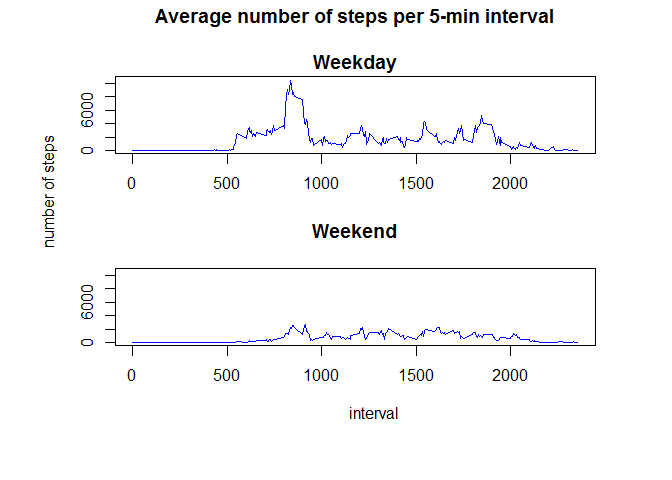
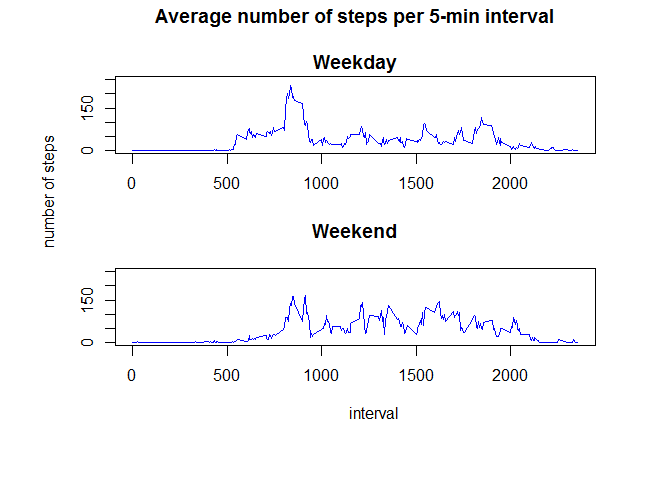
fixing some issues with last section

diff --git a/PA1_template.html b/PA1_template.html
@@ -126,34 +126,13 @@ for (i in 1:nrow(data3))
 data4[,&quot;date&quot;] &lt;- weekdays(as.Date(data4[,&quot;date&quot;]))
 data4[data4[,&quot;date&quot;] ==&quot;Saturday&quot; | data4[,&quot;date&quot;] == &quot;Sunday&quot;,&quot;date&quot;] &lt;- &quot;weekend&quot;
 data4[data4[,&quot;date&quot;] != &quot;weekend&quot; ,&quot;date&quot;] &lt;- &quot;weekday&quot;</code></pre>
-<p>Now we want to create a new dataframe with the sum of steps per day, differentiating between weekday or weekend.</p>
-<pre class="r"><code>dt4&lt;-data.table(data4)[,sum(steps),by=c(&quot;interval&quot;,&quot;date&quot;)]</code></pre>
-<p>Before doing a panel plot we want to check what the maximum values are in both cases, so we can set the same ylab limit values (otherwise it’s not easy to compare the two plots):</p>
-<pre class="r"><code>weekday &lt;- subset(dt4,date==&quot;weekday&quot;)
-weekend &lt;- subset(dt4,date==&quot;weekend&quot;)
-summary(weekday)</code></pre>
-<pre><code>##     interval          date                 V1         
-##  Min.   :   0.0   Length:288         Min.   :    0.0  
-##  1st Qu.: 588.8   Class :character   1st Qu.:  101.1  
-##  Median :1177.5   Mode  :character   Median : 1161.1  
-##  Mean   :1177.5                      Mean   : 1602.5  
-##  3rd Qu.:1766.2                      3rd Qu.: 2288.4  
-##  Max.   :2355.0                      Max.   :10367.0</code></pre>
-<pre class="r"><code>summary(weekend)</code></pre>
-<pre><code>##     interval          date                 V1         
-##  Min.   :   0.0   Length:288         Min.   :   0.00  
-##  1st Qu.: 588.8   Class :character   1st Qu.:  19.86  
-##  Median :1177.5   Mode  :character   Median : 517.43  
-##  Mean   :1177.5                      Mean   : 677.86  
-##  3rd Qu.:1766.2                      3rd Qu.:1194.46  
-##  Max.   :2355.0                      Max.   :2666.23</code></pre>
-<p>Now that we found that the maximum value is higher than 10,000 steps, we can make a panel plot containing a time series plot of the 5-minutes interval (x-axis) and the average number of steps taken, averaged across all weekday days or weekend days (y-axis). Note that both y-axis use the same limits.</p>
-<pre class="r"><code>par(mfrow = c(2,1),oma = c(5,4,0,0),mar = c(0,0,2,2)+2)
-plot(subset(dt4,date==&quot;weekday&quot;,select=c(interval,V1)),type=&quot;l&quot;,main=&quot;Average number of steps per 5-min interval\n\nWeekday&quot;,ylim=c(0,10500),xlab=&quot;&quot;,col='blue',ylab=&quot;number of steps&quot;)
-plot(subset(dt4,date==&quot;weekend&quot;,select=c(interval,V1)),type=&quot;l&quot;,main=&quot;Weekend&quot;,ylim=c(0,10500),col='blue',ylab=&quot;number of steps&quot;)
-title(main='Average number of steps per 5-min interval',xlab='interval',ylab='number of steps',outer=TRUE,line=1)</code></pre>
[1 lines of base64/hex data omitted]
-<p>By comparing both plots we can easily determine that this individual is much more active during the week (from Monday to Friday) than during the weekend.</p>
+<p>Now we want to create a new dataframe with the mean of steps per day, differentiating between weekday or weekend.</p>
+<pre class="r"><code>dt4&lt;-data.table(data4)[,mean(steps),by=c(&quot;interval&quot;,&quot;date&quot;)]</code></pre>
+<p>Finally we can make a panel plot containing a time series plot of the 5-minutes interval (x-axis) and the average number of steps taken, averaged across all weekday days or weekend days (y-axis). For that we are going to use lattice in order to replicate the type of figure expected for this assignment.</p>
+<pre class="r"><code>library(lattice)
+xyplot(V1 ~ interval | date, data = dt4, type = &quot;a&quot;, layout = c(1,2), ylab = 'number of steps')</code></pre>
[1 lines of base64/hex data omitted]
+<p>By comparing both plots we can determine that this individual is more active during the weekend than during the rest of the week, although there’s some intervals in the morning where the average number of steps from Monday to Friday are slightly higher than those in the weekend.</p>
 </div>
 </div>
 

diff --git a/PA1_template.md b/PA1_template.md
@@ -167,59 +167,23 @@ data4[data4[,"date"] != "weekend" ,"date"] <- "weekday"
 ```
 
 
-Now we want to create a new dataframe with the sum of steps per day, differentiating between weekday or weekend. 
+Now we want to create a new dataframe with the mean of steps per day, differentiating between weekday or weekend. 
 
 
 ```r
-dt4<-data.table(data4)[,sum(steps),by=c("interval","date")]
+dt4<-data.table(data4)[,mean(steps),by=c("interval","date")]
 ```
 
 
-Before doing a panel plot we want to check what the maximum values are in both cases, so we can set the same ylab limit values (otherwise it's not easy to compare the two plots):
+Finally we can make a panel plot containing a time series plot of the 5-minutes interval (x-axis) and the average number of steps taken, averaged across all weekday days or weekend days (y-axis). For that we are going to use lattice in order to replicate the type of figure expected for this assignment.
 
 
 ```r
-weekday <- subset(dt4,date=="weekday")
-weekend <- subset(dt4,date=="weekend")
-summary(weekday)
+library(lattice)
+xyplot(V1 ~ interval | date, data = dt4, type = "a", layout = c(1,2), ylab = 'number of steps')
 ```
 
-```
-##     interval          date                 V1         
-##  Min.   :   0.0   Length:288         Min.   :    0.0  
-##  1st Qu.: 588.8   Class :character   1st Qu.:  101.1  
-##  Median :1177.5   Mode  :character   Median : 1161.1  
-##  Mean   :1177.5                      Mean   : 1602.5  
-##  3rd Qu.:1766.2                      3rd Qu.: 2288.4  
-##  Max.   :2355.0                      Max.   :10367.0
-```
-
-```r
-summary(weekend)
-```
-
-```
-##     interval          date                 V1         
-##  Min.   :   0.0   Length:288         Min.   :   0.00  
-##  1st Qu.: 588.8   Class :character   1st Qu.:  19.86  
-##  Median :1177.5   Mode  :character   Median : 517.43  
-##  Mean   :1177.5                      Mean   : 677.86  
-##  3rd Qu.:1766.2                      3rd Qu.:1194.46  
-##  Max.   :2355.0                      Max.   :2666.23
-```
+![](PA1_template_files/figure-html/unnamed-chunk-14-1.png) 
 
 
-Now that we found that the maximum value is higher than 10,000 steps, we can make a panel plot containing a time series plot of the 5-minutes interval (x-axis) and the average number of steps taken, averaged across all weekday days or weekend days (y-axis). Note that both y-axis use the same limits.
-
-
-```r
-par(mfrow = c(2,1),oma = c(5,4,0,0),mar = c(0,0,2,2)+2)
-plot(subset(dt4,date=="weekday",select=c(interval,V1)),type="l",main="Average number of steps per 5-min interval\n\nWeekday",ylim=c(0,10500),xlab="",col='blue',ylab="number of steps")
-plot(subset(dt4,date=="weekend",select=c(interval,V1)),type="l",main="Weekend",ylim=c(0,10500),col='blue',ylab="number of steps")
-title(main='Average number of steps per 5-min interval',xlab='interval',ylab='number of steps',outer=TRUE,line=1)
-```
-
-![](PA1_template_files/figure-html/unnamed-chunk-15-1.png) 
-
-
-By comparing both plots we can easily determine that this individual is much more active during the week (from Monday to Friday) than during the weekend. 
+By comparing both plots we can determine that this individual is more active during the weekend than during the rest of the week, although there's some intervals in the morning where the average number of steps from Monday to Friday are slightly higher than those in the weekend.
